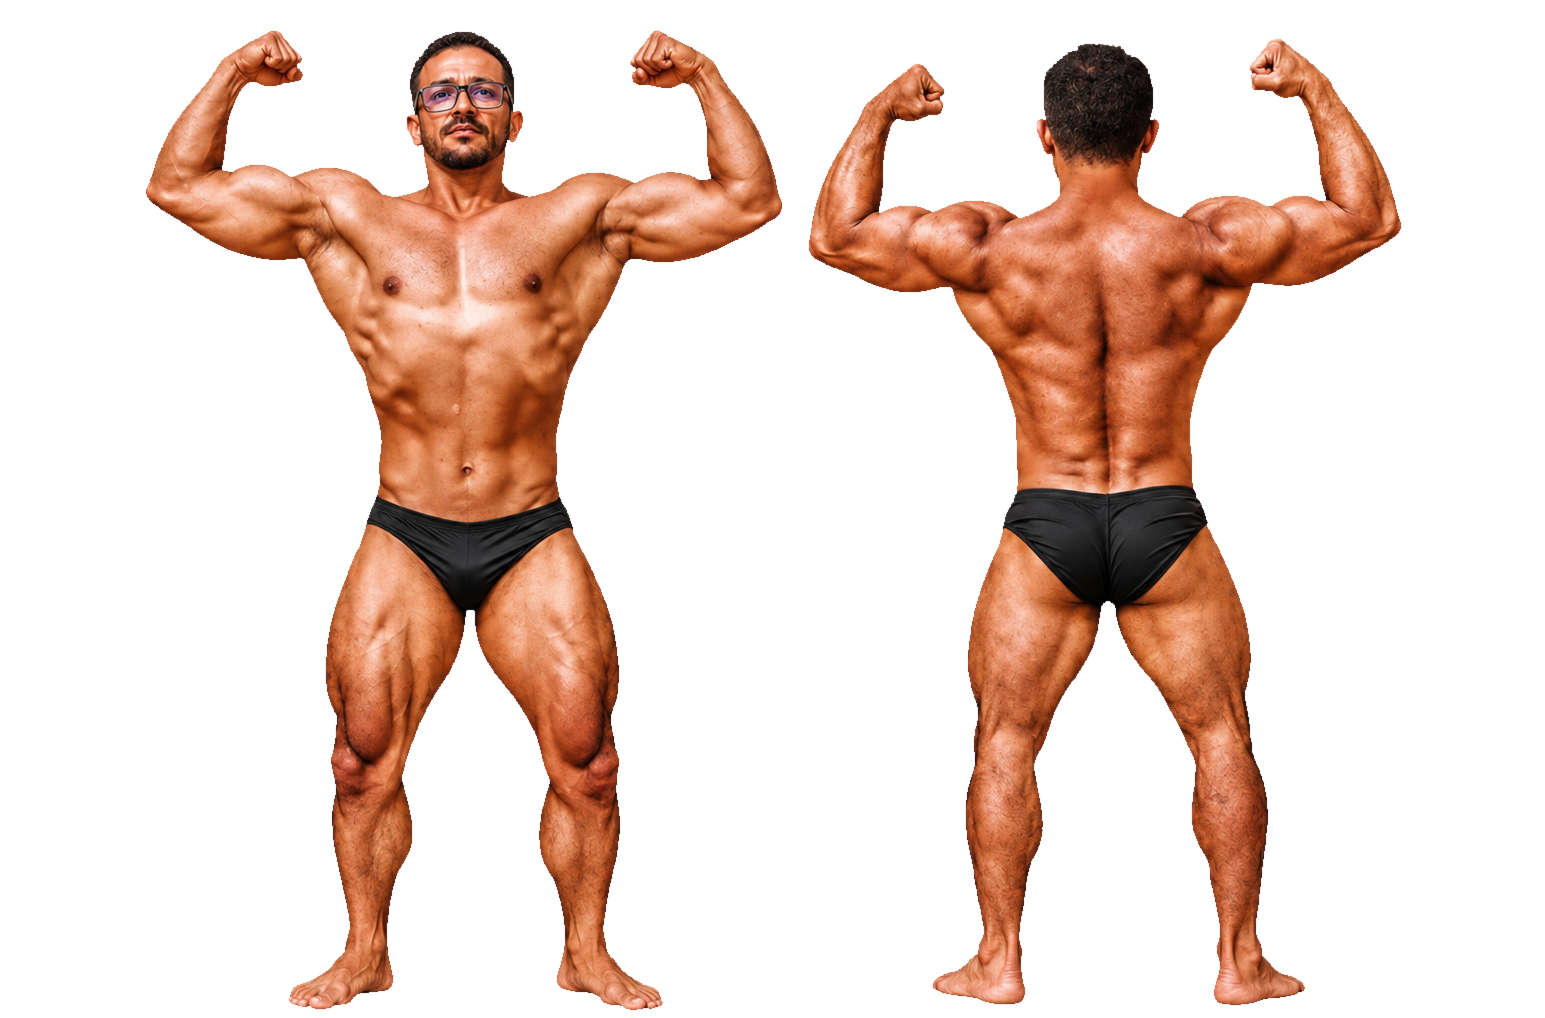
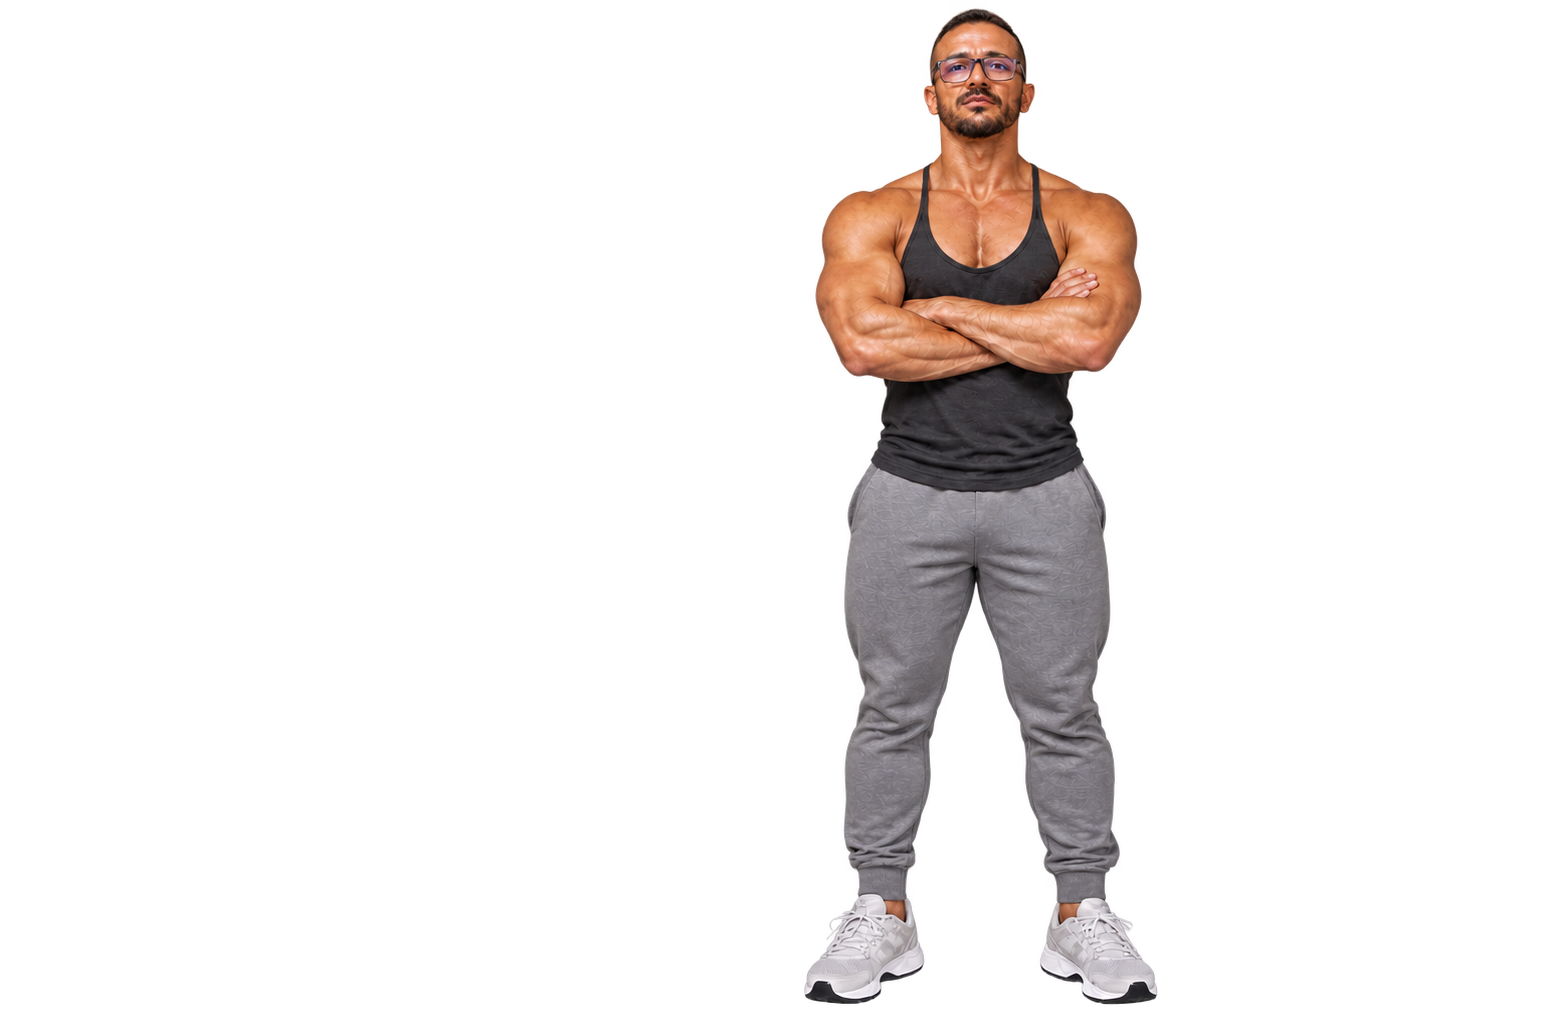
escrever aqui

diff --git a/src/modules/router.js b/src/modules/router.js
@@ -1,10 +1,16 @@
 const routes = new Set(['painel', 'alunos', 'treinos', 'exercicios', 'avaliacoes', 'evolucao'])
 
-function closeMenu() {
+function setMenuState(open) {
   const sidebar = document.querySelector('[data-sidebar]')
   const toggle = document.querySelector('[data-menu-toggle]')
-  sidebar.classList.remove('is-open')
-  toggle.setAttribute('aria-expanded', 'false')
+  sidebar.classList.toggle('is-open', open)
+  toggle.setAttribute('aria-expanded', String(open))
+  toggle.setAttribute('aria-label', open ? 'Fechar menu' : 'Abrir menu')
+  toggle.querySelector('use')?.setAttribute('href', open ? '#icon-close' : '#icon-menu')
+}
+
+function closeMenu() {
+  setMenuState(false)
 }
 
 function renderRoute() {
@@ -27,11 +33,9 @@ function renderRoute() {
 
 export function initNavigation() {
   window.addEventListener('hashchange', renderRoute)
-  document.querySelector('[data-menu-toggle]').addEventListener('click', (event) => {
+  document.querySelector('[data-menu-toggle]').addEventListener('click', () => {
     const sidebar = document.querySelector('[data-sidebar]')
-    const willOpen = !sidebar.classList.contains('is-open')
-    sidebar.classList.toggle('is-open', willOpen)
-    event.currentTarget.setAttribute('aria-expanded', String(willOpen))
+    setMenuState(!sidebar.classList.contains('is-open'))
   })
   document.querySelector('[data-sidebar-backdrop]').addEventListener('click', closeMenu)
   renderRoute()

diff --git a/src/modules/public-menu.js b/src/modules/public-menu.js
@@ -1,7 +1,12 @@
+function setMenuState(menu, toggle, open) {
+  menu.hidden = !open
+  toggle.setAttribute('aria-expanded', String(open))
+  toggle.setAttribute('aria-label', open ? 'Fechar menu' : 'Abrir menu')
+  toggle.querySelector('use')?.setAttribute('href', open ? '#icon-close' : '#icon-menu')
+}
+
 function closeMenu(menu, toggle) {
-  menu.hidden = true
-  toggle.setAttribute('aria-expanded', 'false')
-  toggle.setAttribute('aria-label', 'Abrir menu')
+  setMenuState(menu, toggle, false)
 }
 
 export function initPublicMenu() {
@@ -11,10 +16,7 @@ export function initPublicMenu() {
   const desktop = window.matchMedia('(min-width: 821px)')
 
   toggle.addEventListener('click', () => {
-    const willOpen = menu.hidden
-    menu.hidden = !willOpen
-    toggle.setAttribute('aria-expanded', String(willOpen))
-    toggle.setAttribute('aria-label', willOpen ? 'Fechar menu' : 'Abrir menu')
+    setMenuState(menu, toggle, menu.hidden)
   })
 
   menu.addEventListener('click', (event) => {

diff --git a/src/styles/desktop-hero.css b/src/styles/desktop-hero.css
@@ -1,0 +1,18 @@
+@media (min-width: 861px) {
+  .public-hero-athlete {
+    width: min(90vw, 1450px);
+    background-position: calc(50% - clamp(110px, 9vw, 180px)) bottom;
+  }
+
+  .public-hero-copy {
+    transform: translateY(clamp(100px, 11vh, 145px));
+  }
+}
+
+@media (max-width: 620px) {
+  .public-hero-athlete {
+    background-position:
+      calc(50% - 14vw) bottom,
+      center bottom;
+  }
+}

diff --git a/src/styles/main.css b/src/styles/main.css
@@ -7,3 +7,4 @@
 @import url('./student-access.css');
 @import url('./mobile-personal.css');
 @import url('./personal-test-access.css');
+@import url('./desktop-hero.css');
